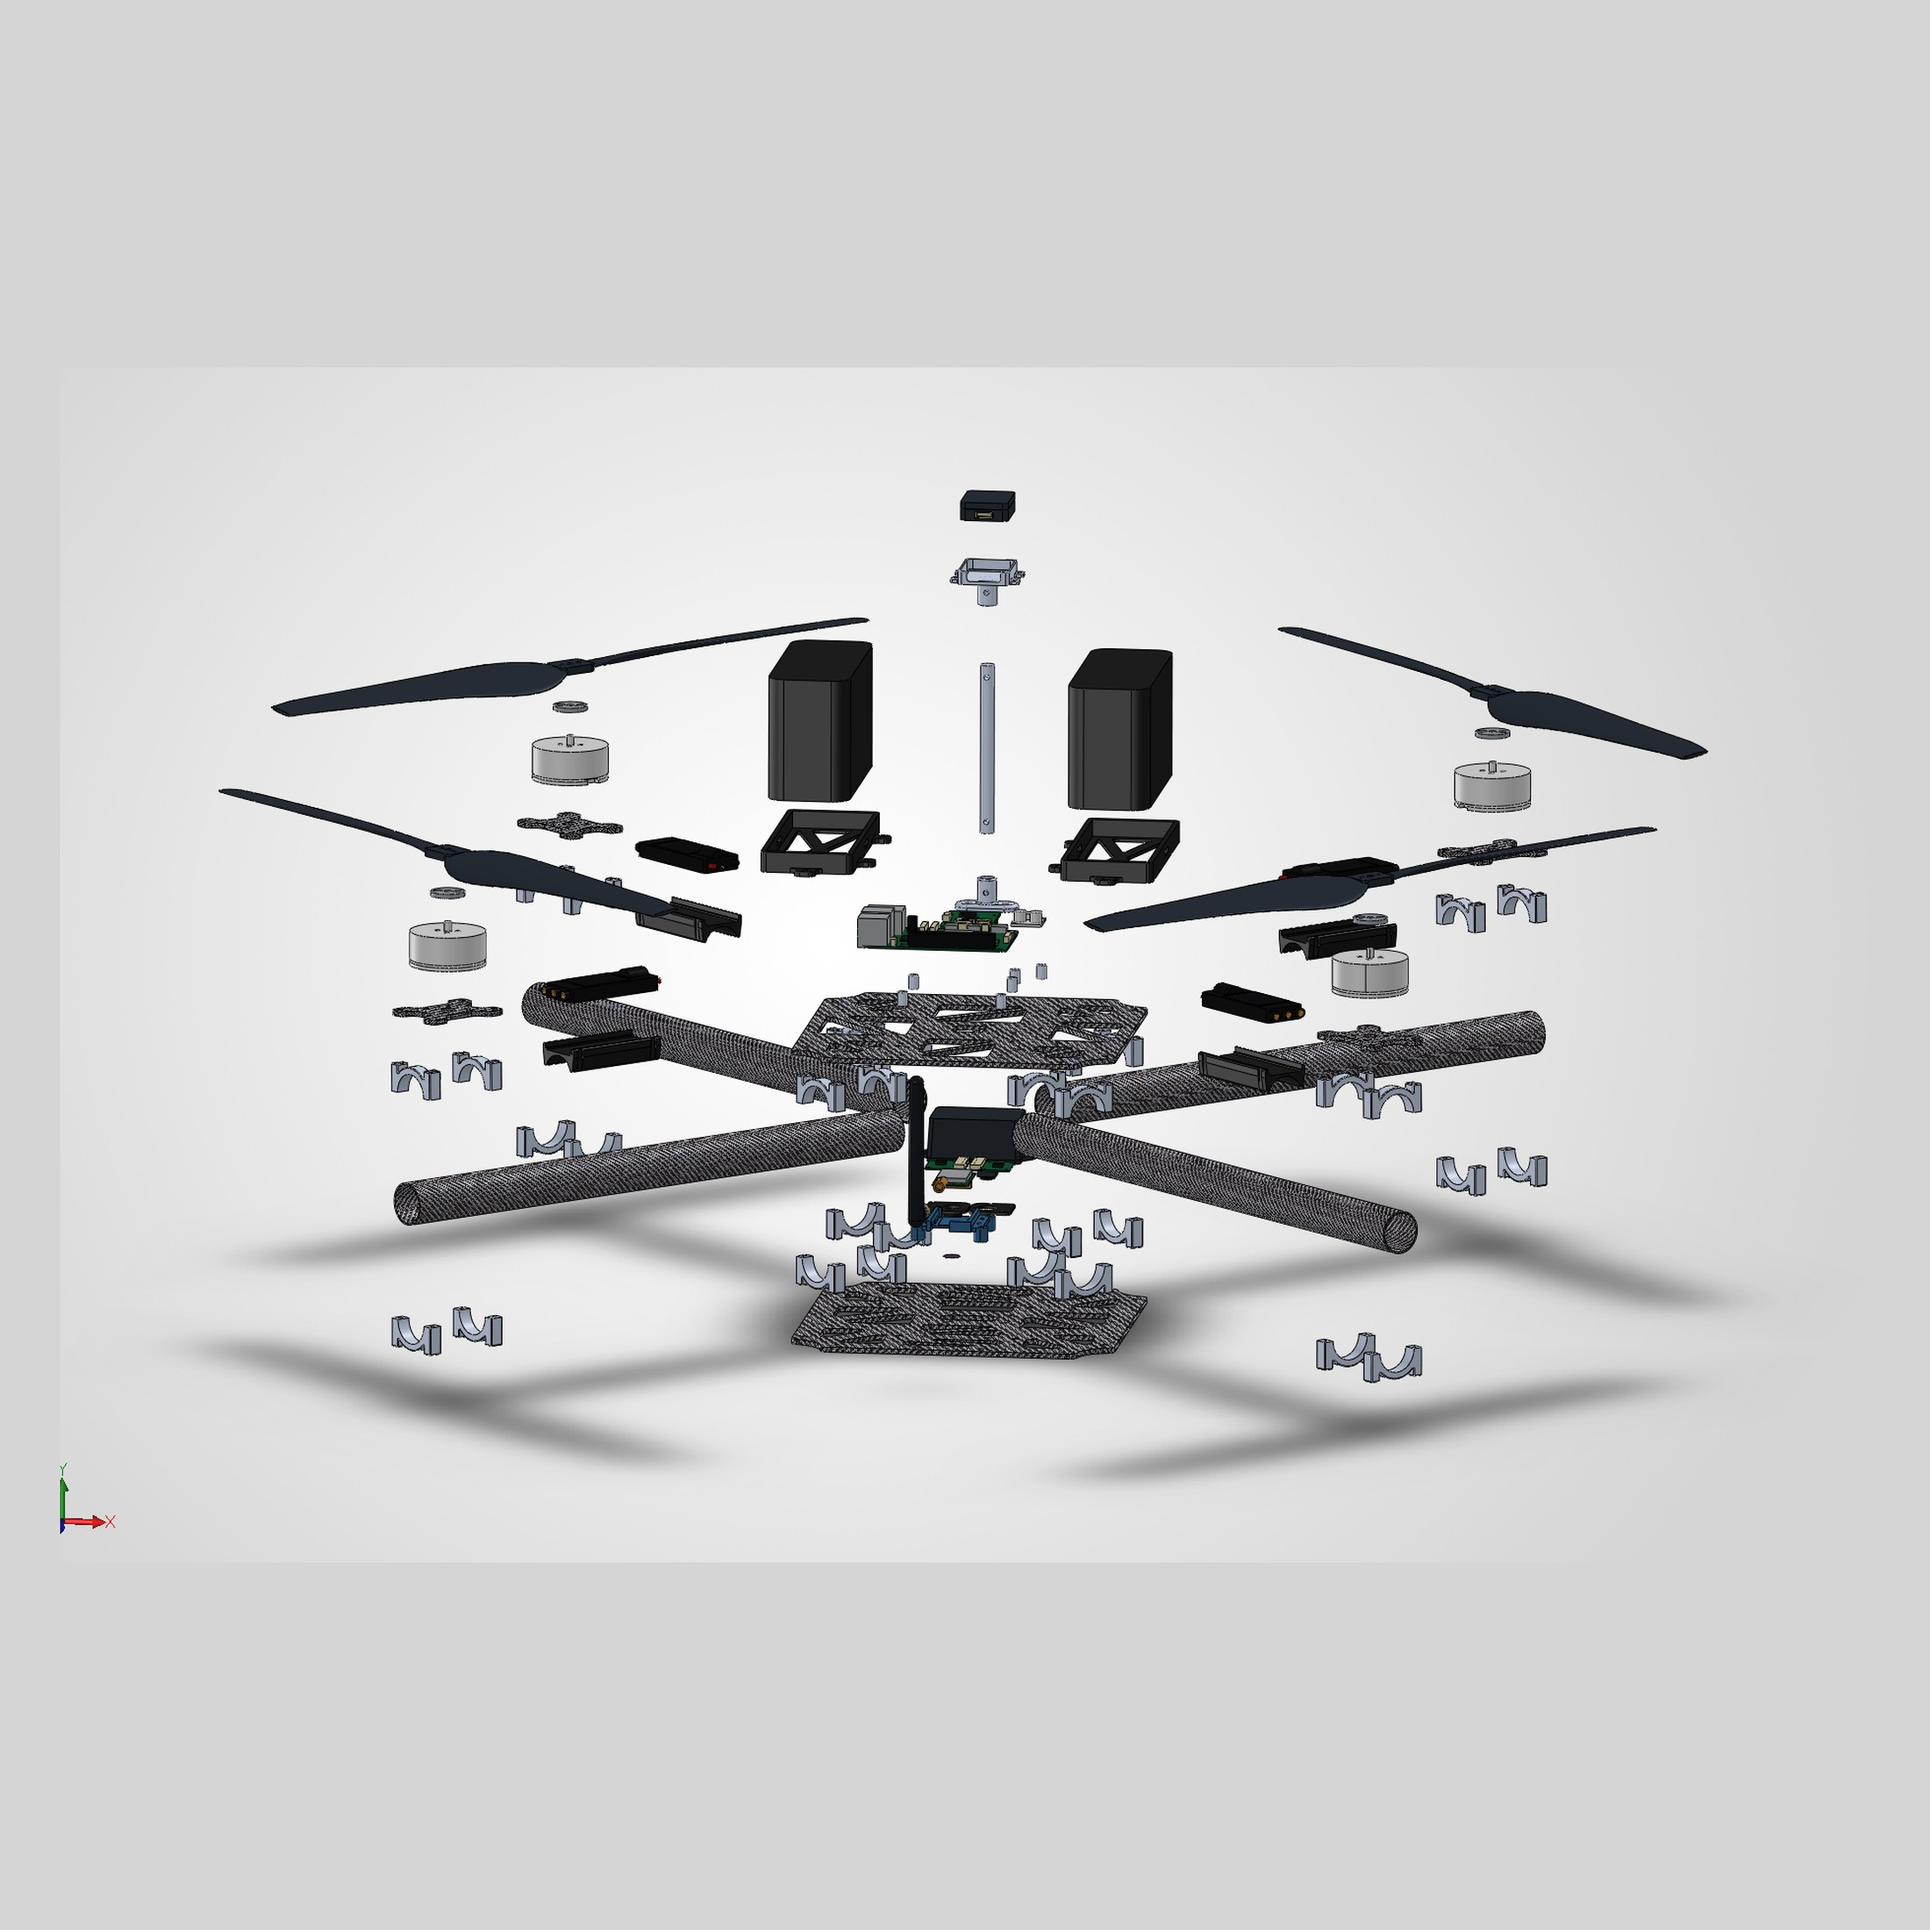
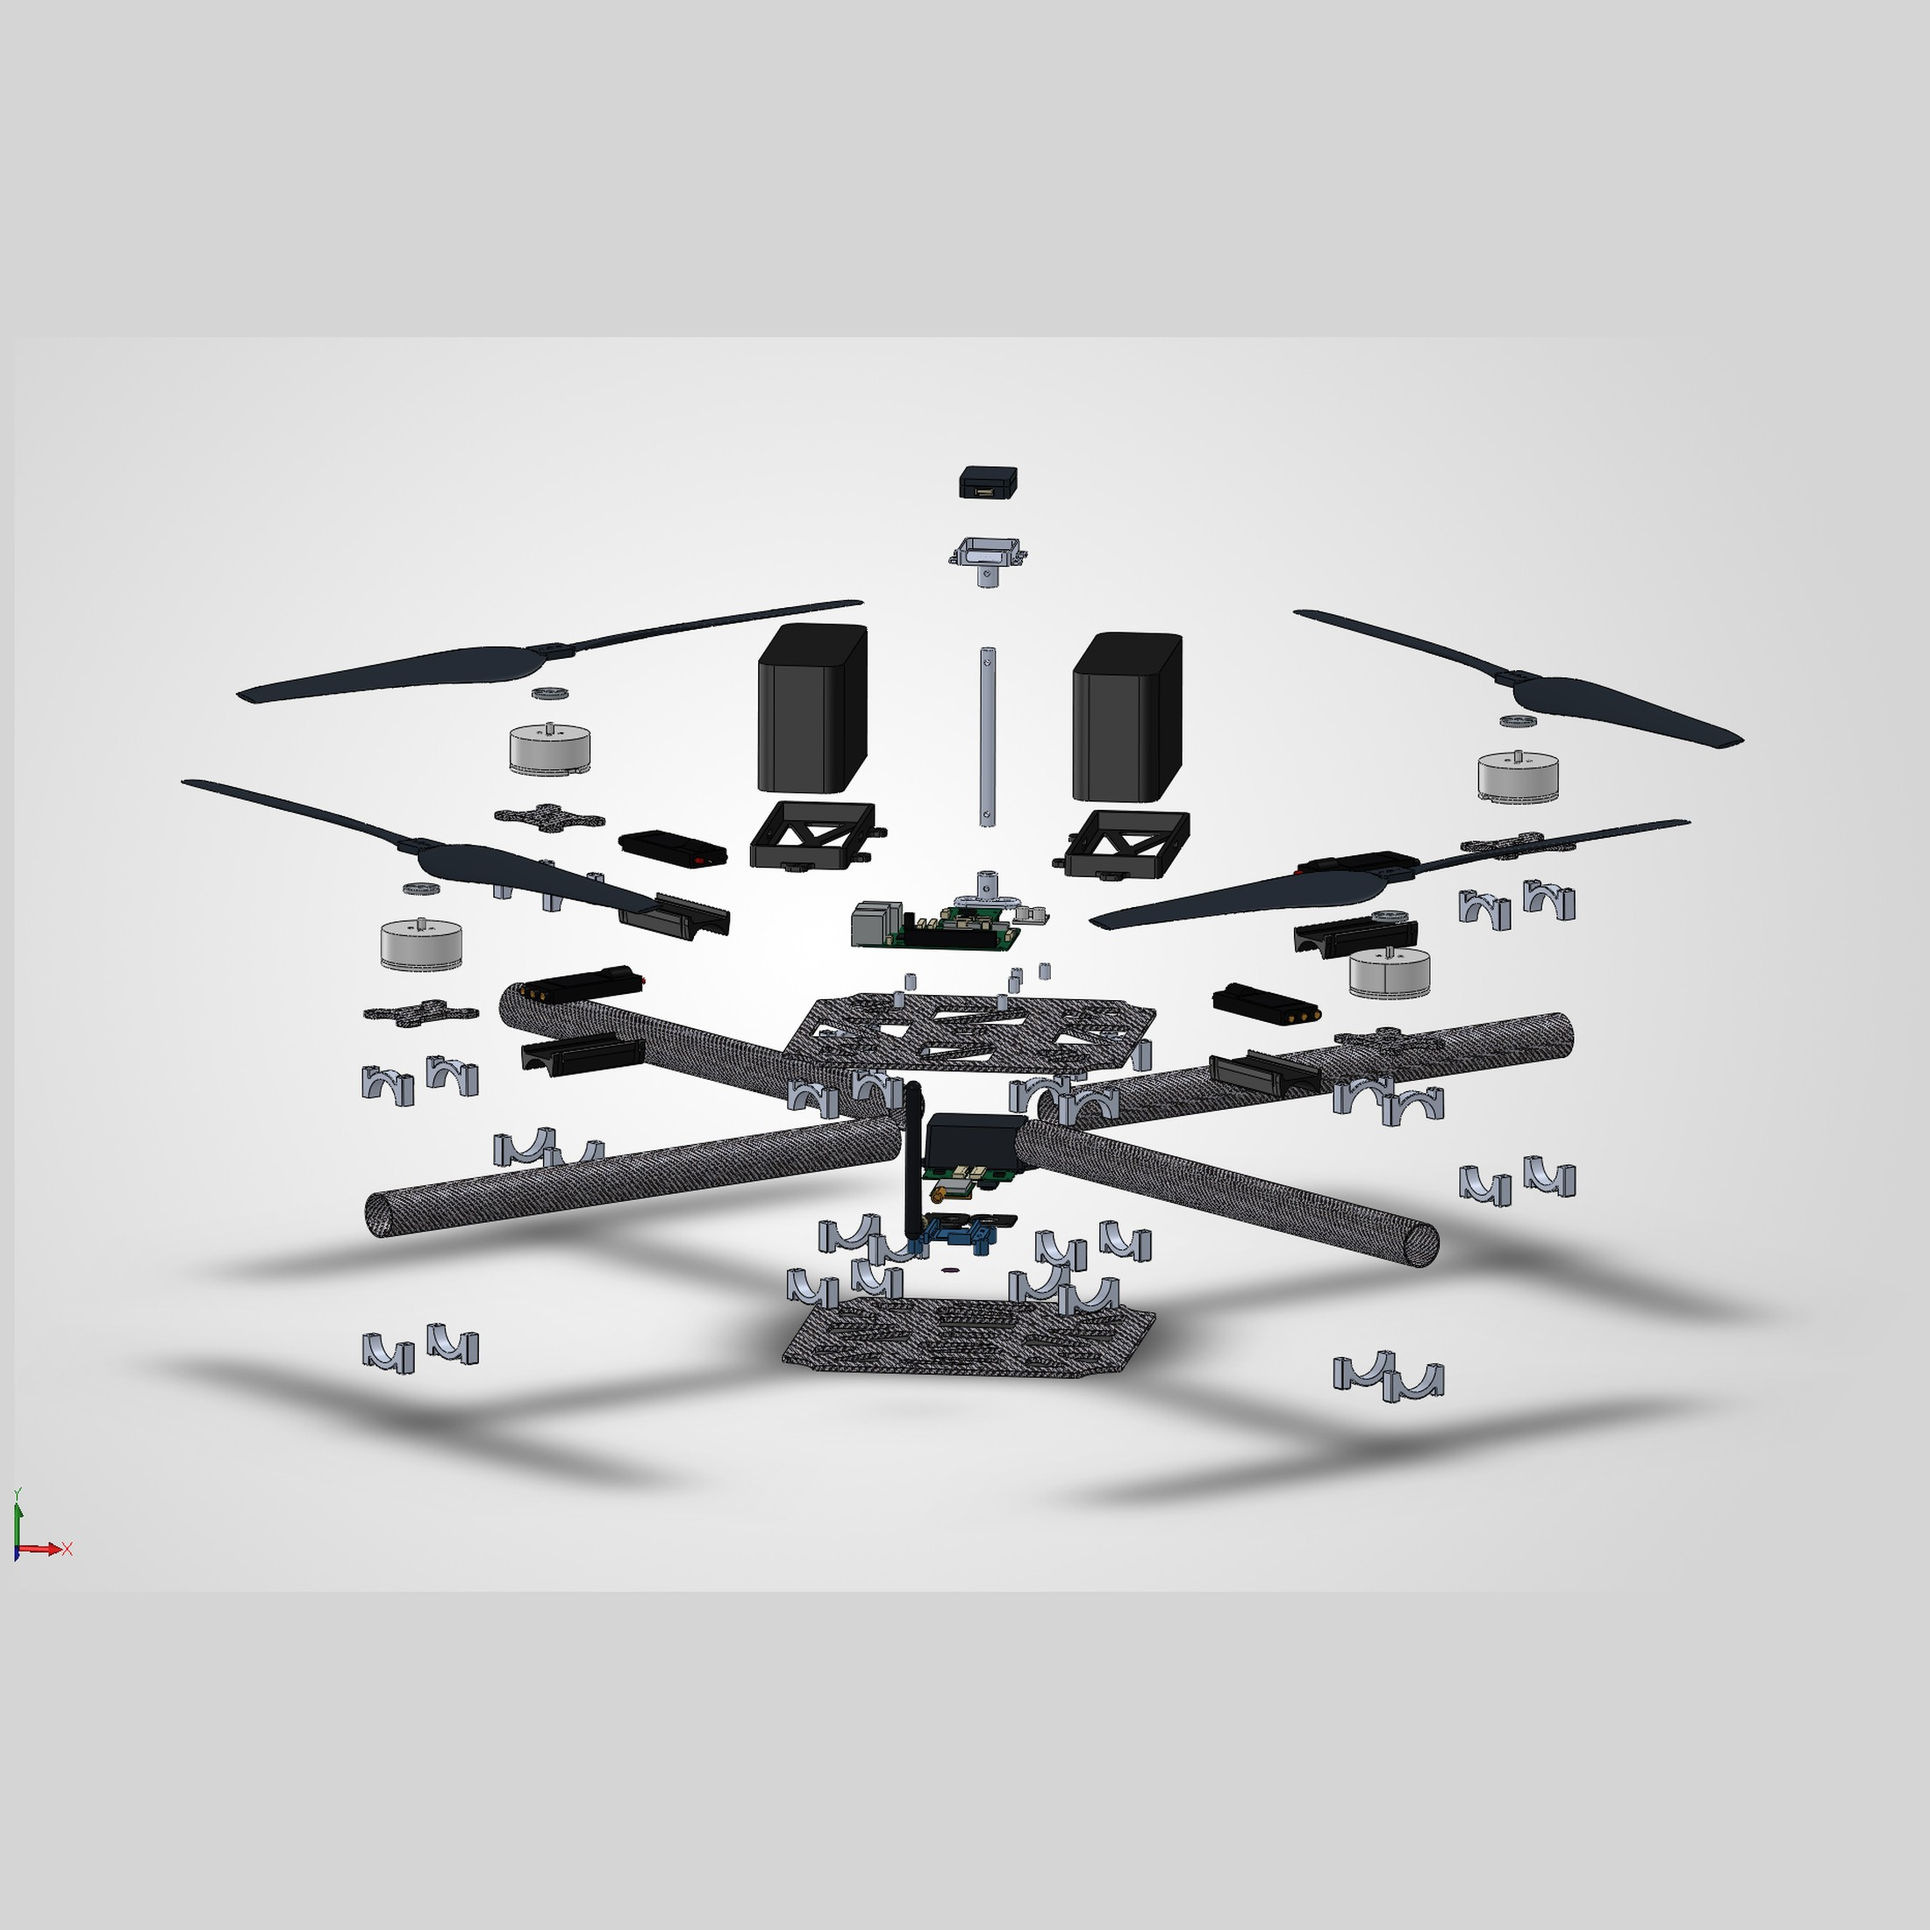
Tighten front and exploded ECHO crops another 5%.

diff --git a/work/project-echo.html b/work/project-echo.html
@@ -382,7 +382,7 @@
               <figcaption>2 · Top view — X-frame layout and center stack</figcaption>
             </figure>
             <figure class="figure">
-              <img src="../assets/images/project-echo/cad-front.jpg?v=tight5" alt="Front CAD view of Project ECHO" width="2200" height="2200" loading="lazy" />
+              <img src="../assets/images/project-echo/cad-front.jpg?v=tight10" alt="Front CAD view of Project ECHO" width="2200" height="2200" loading="lazy" />
               <figcaption>3 · Front view — mast, packs, and propeller plane</figcaption>
             </figure>
             <figure class="figure">
@@ -390,7 +390,7 @@
               <figcaption>4 · Front-top isometric — packaging overview</figcaption>
             </figure>
             <figure class="figure">
-              <img src="../assets/images/project-echo/cad-exploded.jpg?v=tight5" alt="Exploded isometric CAD assembly of Project ECHO" width="2200" height="2200" loading="lazy" />
+              <img src="../assets/images/project-echo/cad-exploded.jpg?v=tight10" alt="Exploded isometric CAD assembly of Project ECHO" width="2200" height="2200" loading="lazy" />
               <figcaption>5 · Exploded isometric — assembly stack and major subsystems</figcaption>
             </figure>
           </div>
